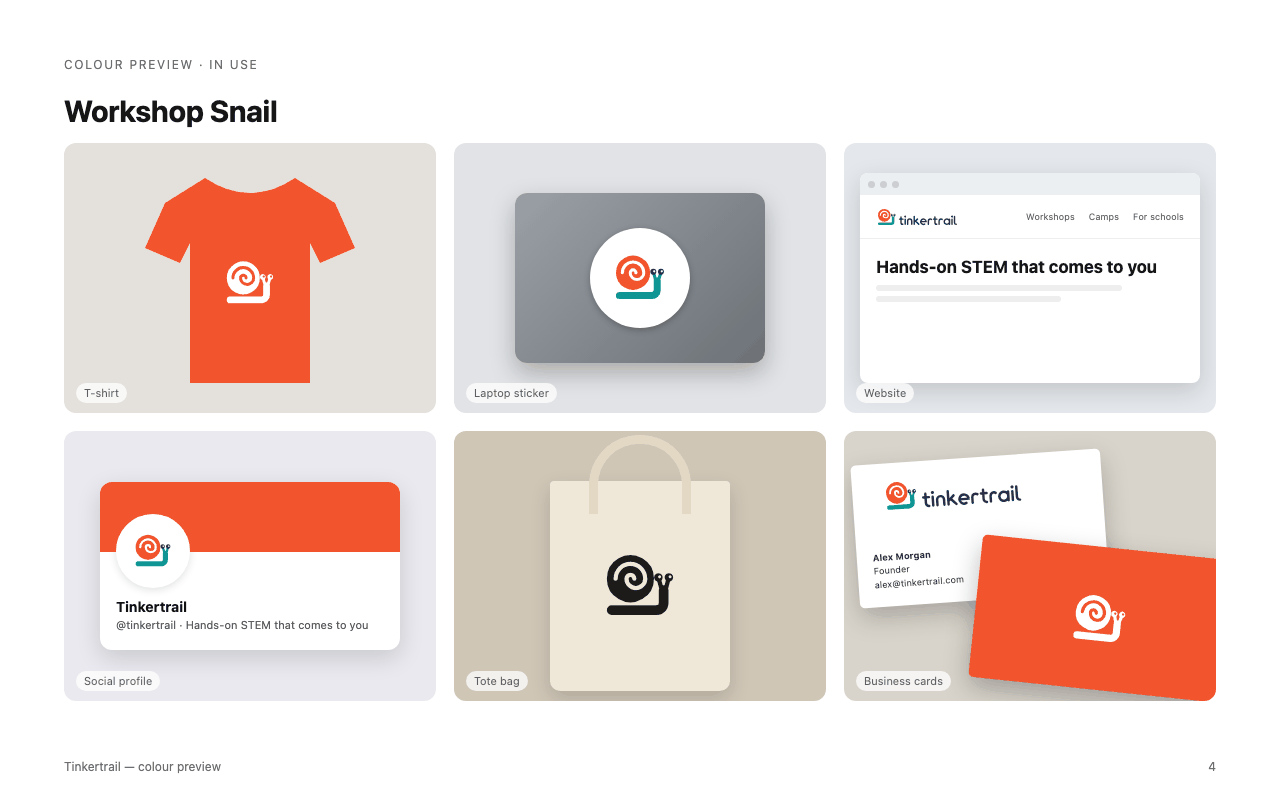
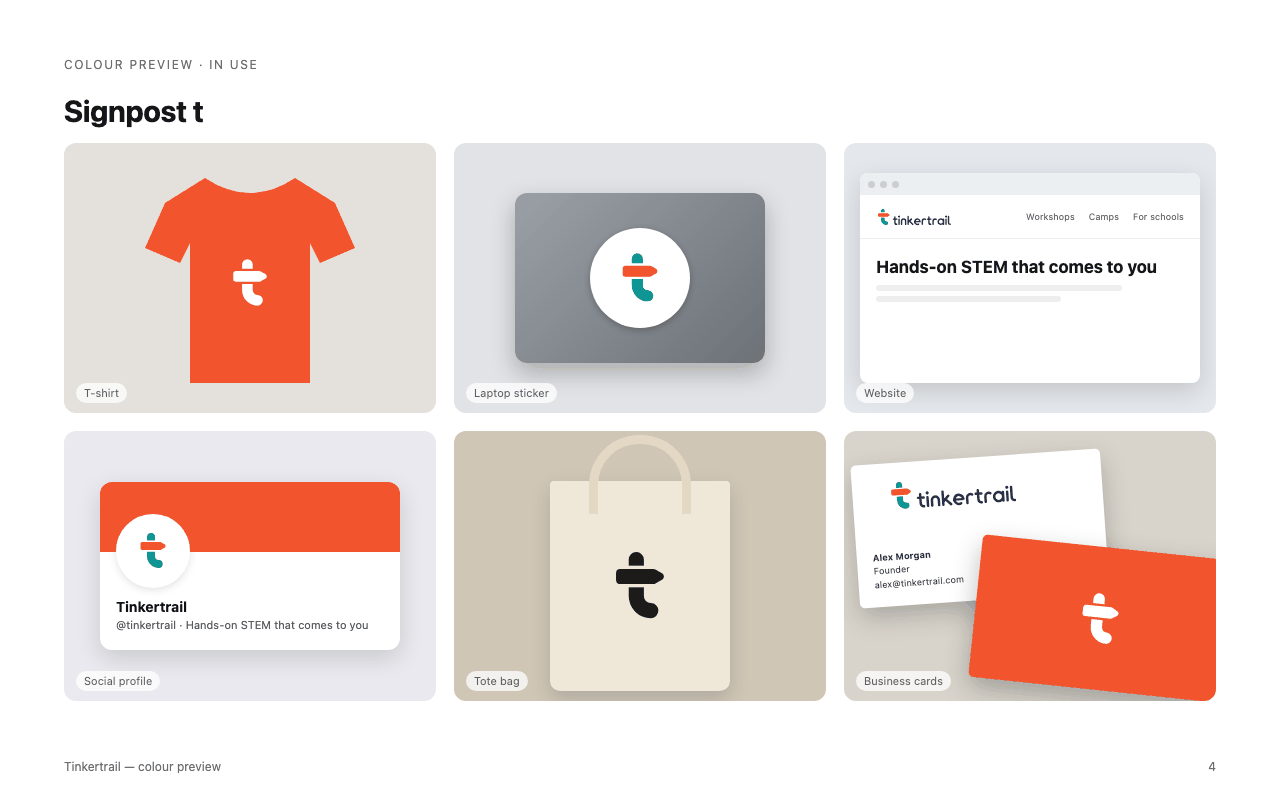
Showcase eleven example runs with vivid palettes
Add six new fictional briefs (food delivery, music festival, padel &
tennis app, surf hostel, veterinary clinic, solar energy) with vivid,
saturated palettes; switch Tinkertrail to the client-chosen Signpost t;
new eleven-brand hero banner and updated examples table.

diff --git a/README.md b/README.md
@@ -1,6 +1,6 @@
 # Logo Design Skill for Claude
 
-![Five example runs of the logo-design skill](docs/images/hero.png)
+![Eleven example runs of the logo-design skill](docs/images/hero.png)
 
 A comprehensive **logo-design skill** that turns Claude into a disciplined identity designer — from the first
 brief to production-ready SVG files and brand guidelines.
@@ -41,73 +41,124 @@ makes sense for an approved idea.
 
 ## Examples
 
-Five fictional briefs, five sectors, five deliberately different styles — each run end to end with the skill.
-For every brand you see exactly what the skill shows at the checkpoint (greyscale concepts with true 64/32/16 px
-sizes), followed by a colour preview of the recommended direction on mockups chosen for that industry.
+Eleven fictional briefs across eleven sectors, from quiet luxury to neon festival — each run end to end with the
+skill. For every brand you see exactly what the skill shows at the checkpoint (greyscale concepts with true
+64/32/16 px sizes and a recommendation), followed by a colour preview of the chosen direction on mockups picked for
+that industry. The second batch deliberately pushes **vivid, saturated palettes** — while still passing the
+one-colour and 3 : 1 contrast checks.
 
-| Brand | Sector | Style | Recommended mark |
+| Brand | Sector | Style | Chosen mark |
 |---|---|---|---|
 | [Kiln](#kiln--specialty-coffee-roaster) | Specialty coffee | Warm, crafted, modern | Letterform + custom wordmark |
-| [Maison Orvelle](#maison-orvelle--luxury-fashion-atelier) | Luxury fashion | High-contrast Didone, monogram | Monogram |
-| [Tinkertrail](#tinkertrail--kids-stem-workshops) | Kids' STEM education | Playful, rounded, multi-colour | Mascot |
+| [Zestly](#zestly--food-delivery-app) | Food delivery | Juicy, cheeky, tomato & lime | Mascot |
+| [Maison Orvelle](#maison-orvelle--luxury-fashion-atelier) | Luxury fashion | High-contrast Didone | Monogram |
+| [Pulsewave](#pulsewave--music--arts-festival) | Music festival | Neon on night, kinetic | Abstract letterform |
+| [Tinkertrail](#tinkertrail--kids-stem-workshops) | Kids' STEM education | Playful, rounded, multi-colour | Letterform |
+| [Ralli](#ralli--padel--tennis-app) | Sports app | Dynamic italic, electric coral | Letterform |
 | [Alderpeak](#alderpeak--outdoor-gear) | Outdoor gear | Rugged, slab, earthy | Pictorial symbol |
-| [Calmera](#calmera--physiotherapy-clinic) | Physiotherapy clinic | Soft, organic, calm | Pictorial symbol |
+| [Driftwell](#driftwell--surf-hostel--café) | Hospitality | Azulejo tile, coastal brights | Emblem + symbol |
+| [Calmera](#calmera--physiotherapy-clinic) | Physiotherapy | Soft, organic, calm | Pictorial symbol |
+| [Bramble Vet](#bramble-vet--veterinary-clinic) | Veterinary | Friendly character, sunny | Mascot |
+| [Voltra](#voltra--solar-energy) | Clean energy | Geometric, volt orange | Abstract symbol |
 
 ### Kiln — specialty coffee roaster
-*Small-batch roaster in Istanbul: warm, crafted and modern — not rustic cliché. Must work on bags, cups and an
-Instagram avatar.*
+*Small-batch roaster in Istanbul: warm, crafted and modern — not rustic cliché. Must work on bags, cups and an Instagram avatar.*
 
 ![Kiln concepts](docs/images/kiln-concepts.png)
 
-**Recommended: Kiln K** — a K whose leg is the kiln's arched firing mouth; the arch returns as the *n* of the
-wordmark. The audit caught a 60.8° diagonal in an early *N* and an off-centre symbol before anything was shown.
+**Recommended: Kiln K** — a K whose leg is the kiln's arched firing mouth; the arch returns as the *n* of the wordmark. The audit caught a 60.8° diagonal in an early *N* and an off-centre symbol before anything was shown.
 
 ![Kiln in use](docs/images/kiln-board.png)
 
+### Zestly — food delivery app
+*Independent local kitchens delivered in 25 minutes: fresh, fast, appetising, cheeky — no forks, chef hats, scooters or map pins.*
+
+![Zestly concepts](docs/images/zestly-concepts.png)
+
+**Recommended: Big Grin** — a citrus wedge flipped into a cheeky, winking grin: appetite and generosity in one mark. Tomato red with a zest-lime rind and aubergine ink. The skill flags its honest risk too: some people read the wedge as watermelon.
+
+![Zestly in use](docs/images/zestly-board.png)
+
 ### Maison Orvelle — luxury fashion atelier
-*Paris womenswear, made-to-measure and small leather goods: elegant, refined, timeless — no crowns, laurels or gold
-gradients.*
+*Paris womenswear, made-to-measure and small leather goods: elegant, refined, timeless — no crowns, laurels or gold gradients.*
 
 ![Maison Orvelle concepts](docs/images/maison-orvelle-concepts.png)
 
-**Recommended: Pendant** — a Didone M whose vertex holds an O like a pendant at a V-neckline; it still reads at 16 px
-and is solid enough to emboss on leather. The craft pass dropped a shared-foot "LL" (it read as *ORVEILE*) and avoided
-an M-in-a-circle (too close to a famous transit sign).
+**Recommended: Pendant** — a Didone M whose vertex holds an O like a pendant at a V-neckline; it still reads at 16 px and is solid enough to emboss on leather. The craft pass dropped a shared-foot "LL" (it read as *ORVEILE*) and avoided an M-in-a-circle (too close to a famous transit sign).
 
 ![Maison Orvelle in use](docs/images/maison-orvelle-board.png)
 
+### Pulsewave — music & arts festival
+*Three-day electronic music and digital-arts festival by a lake: electric, rhythmic, euphoric — no equaliser bars, headphones or vinyl.*
+
+![Pulsewave concepts](docs/images/pulsewave-concepts.png)
+
+**Recommended: Crossing Beams** — two stage lights send four tapered beams; where the inner beams cross they draw the W, like raised arms, and they can sweep to the beat. Electric magenta, ultraviolet and cyan on night. Cyan only reaches 1.5 : 1 on white, so the skill keeps it for dark backgrounds.
+
+![Pulsewave in use](docs/images/pulsewave-board.png)
+
 ### Tinkertrail — kids' STEM workshops
-*Hands-on robotics and circuits workshops that tour schools: playful, curious, trustworthy — no lightbulbs, atoms,
-gears or rockets.*
+*Hands-on robotics and circuits workshops that tour schools: playful, curious, trustworthy — no lightbulbs, atoms, gears or rockets.*
 
 ![Tinkertrail concepts](docs/images/tinkertrail-concepts.png)
 
-**Recommended: Workshop Snail** — a curious snail that carries its workshop on its back, just as Tinkertrail brings
-it to every school. The skill flags the honest risks too: snails can suggest "slow", and the spiral fills in at 16 px,
-so a simplified favicon cut is part of the kit.
+**Chosen: Signpost t** — the t is a trail signpost pointing kids to the next discovery: a teal stem (the trail) and a coral sign (what's next). The skill had recommended the Workshop Snail; at the checkpoint the client picked the letterform because it stays sturdy for schools and reads at 16 px — exactly what the checkpoint is for.
 
 ![Tinkertrail in use](docs/images/tinkertrail-board.png)
+
+### Ralli — padel & tennis app
+*Book courts, find partners at your level and join leagues: energetic, social, sporty — no tennis balls, crossed rackets, trophies or swooshes.*
+
+![Ralli concepts](docs/images/ralli-concepts.png)
+
+**Recommended: Rally R** — one italic stroke goes up, over, back and away, like a rally; the leg was snapped to an exact 60°. Electric coral on night-court ink, with acid lime reserved for dark backgrounds.
+
+![Ralli in use](docs/images/ralli-board.png)
 
 ### Alderpeak — outdoor gear
 *Packs, shells and base layers from the Pacific Northwest: rugged, dependable, honest — no generic mountain-and-sun.*
 
 ![Alderpeak concepts](docs/images/alderpeak-concepts.png)
 
-**Recommended: Cairn** — three stacked stones build a summit, a peak and a trail marker in one; the tilted gaps zigzag
-like a switchback. Rejected along the way: a carabiner *a* (read as "cl") and tree-ring contours (read as a target).
+**Recommended: Cairn** — three stacked stones build a summit, a peak and a trail marker in one; the tilted gaps zigzag like a switchback. Rejected along the way: a carabiner *a* (read as "cl") and tree-ring contours (read as a target).
 
 ![Alderpeak in use](docs/images/alderpeak-board.png)
+
+### Driftwell — surf hostel & café
+*Design-led surf hostel and café on the Portuguese coast: sunny, laid-back, social — no palm trees, sunsets or surfboard silhouettes.*
+
+![Driftwell concepts](docs/images/driftwell-concepts.png)
+
+**Recommended: Azulejo Tile** — a Portuguese azulejo name tile with a D at its heart; laid edge to edge, the corner quarters join into suns. Atlantic blue, tangerine and sun yellow. The audit snapped the W and R diagonals to exact 75° and 45°.
+
+![Driftwell in use](docs/images/driftwell-board.png)
 
 ### Calmera — physiotherapy clinic
 *Rehab, sports physio and pilates: calm, caring, professional — no crosses, heartbeats, spines or hands-with-hearts.*
 
 ![Calmera concepts](docs/images/calmera-concepts.png)
 
-**Recommended: Still Heron** — a heron balancing on one leg in still water; single-leg balance is a standard rehab and
-pilates exercise, and nothing else in the category looks like it. An early abstract idea was dropped after the peer
-test found it too close to an existing mark, and the sage was darkened to reach 3 : 1 contrast.
+**Recommended: Still Heron** — a heron balancing on one leg in still water; single-leg balance is a standard rehab and pilates exercise, and nothing else in the category looks like it. An early abstract idea was dropped after the peer test found it too close to an existing mark, and the sage was darkened to reach 3 : 1 contrast.
 
 ![Calmera in use](docs/images/calmera-board.png)
+
+### Bramble Vet — veterinary clinic
+*A family vet for cats and dogs: warm, trustworthy, cheerful — no paws, bones, crosses or stethoscopes.*
+
+![Bramble Vet concepts](docs/images/bramble-vet-concepts.png)
+
+**Recommended: Odd Ears** — one smiling face with a pointed cat ear and a floppy dog ear: every cat and dog belongs. Cobalt and berry on sunny yellow. Several ideas were dropped when the reading test turned them into grapes, an anchor or a teapot.
+
+![Bramble Vet in use](docs/images/bramble-vet-board.png)
+
+### Voltra — solar energy
+*Rooftop solar, home batteries and an energy app: bright, optimistic, dependable — no sun rays, leaves, bolts or plugs.*
+
+![Voltra concepts](docs/images/voltra-concepts.png)
+
+**Recommended: Sun Dock** — the sun docks into a battery shaped to hold it, and the gap between them is a crescent moon: *sunshine, after dark*. Volt orange with night navy. A "charge-level o" was dropped because it read as *veltra*.
+
+![Voltra in use](docs/images/voltra-board.png)
 
 ---
 
